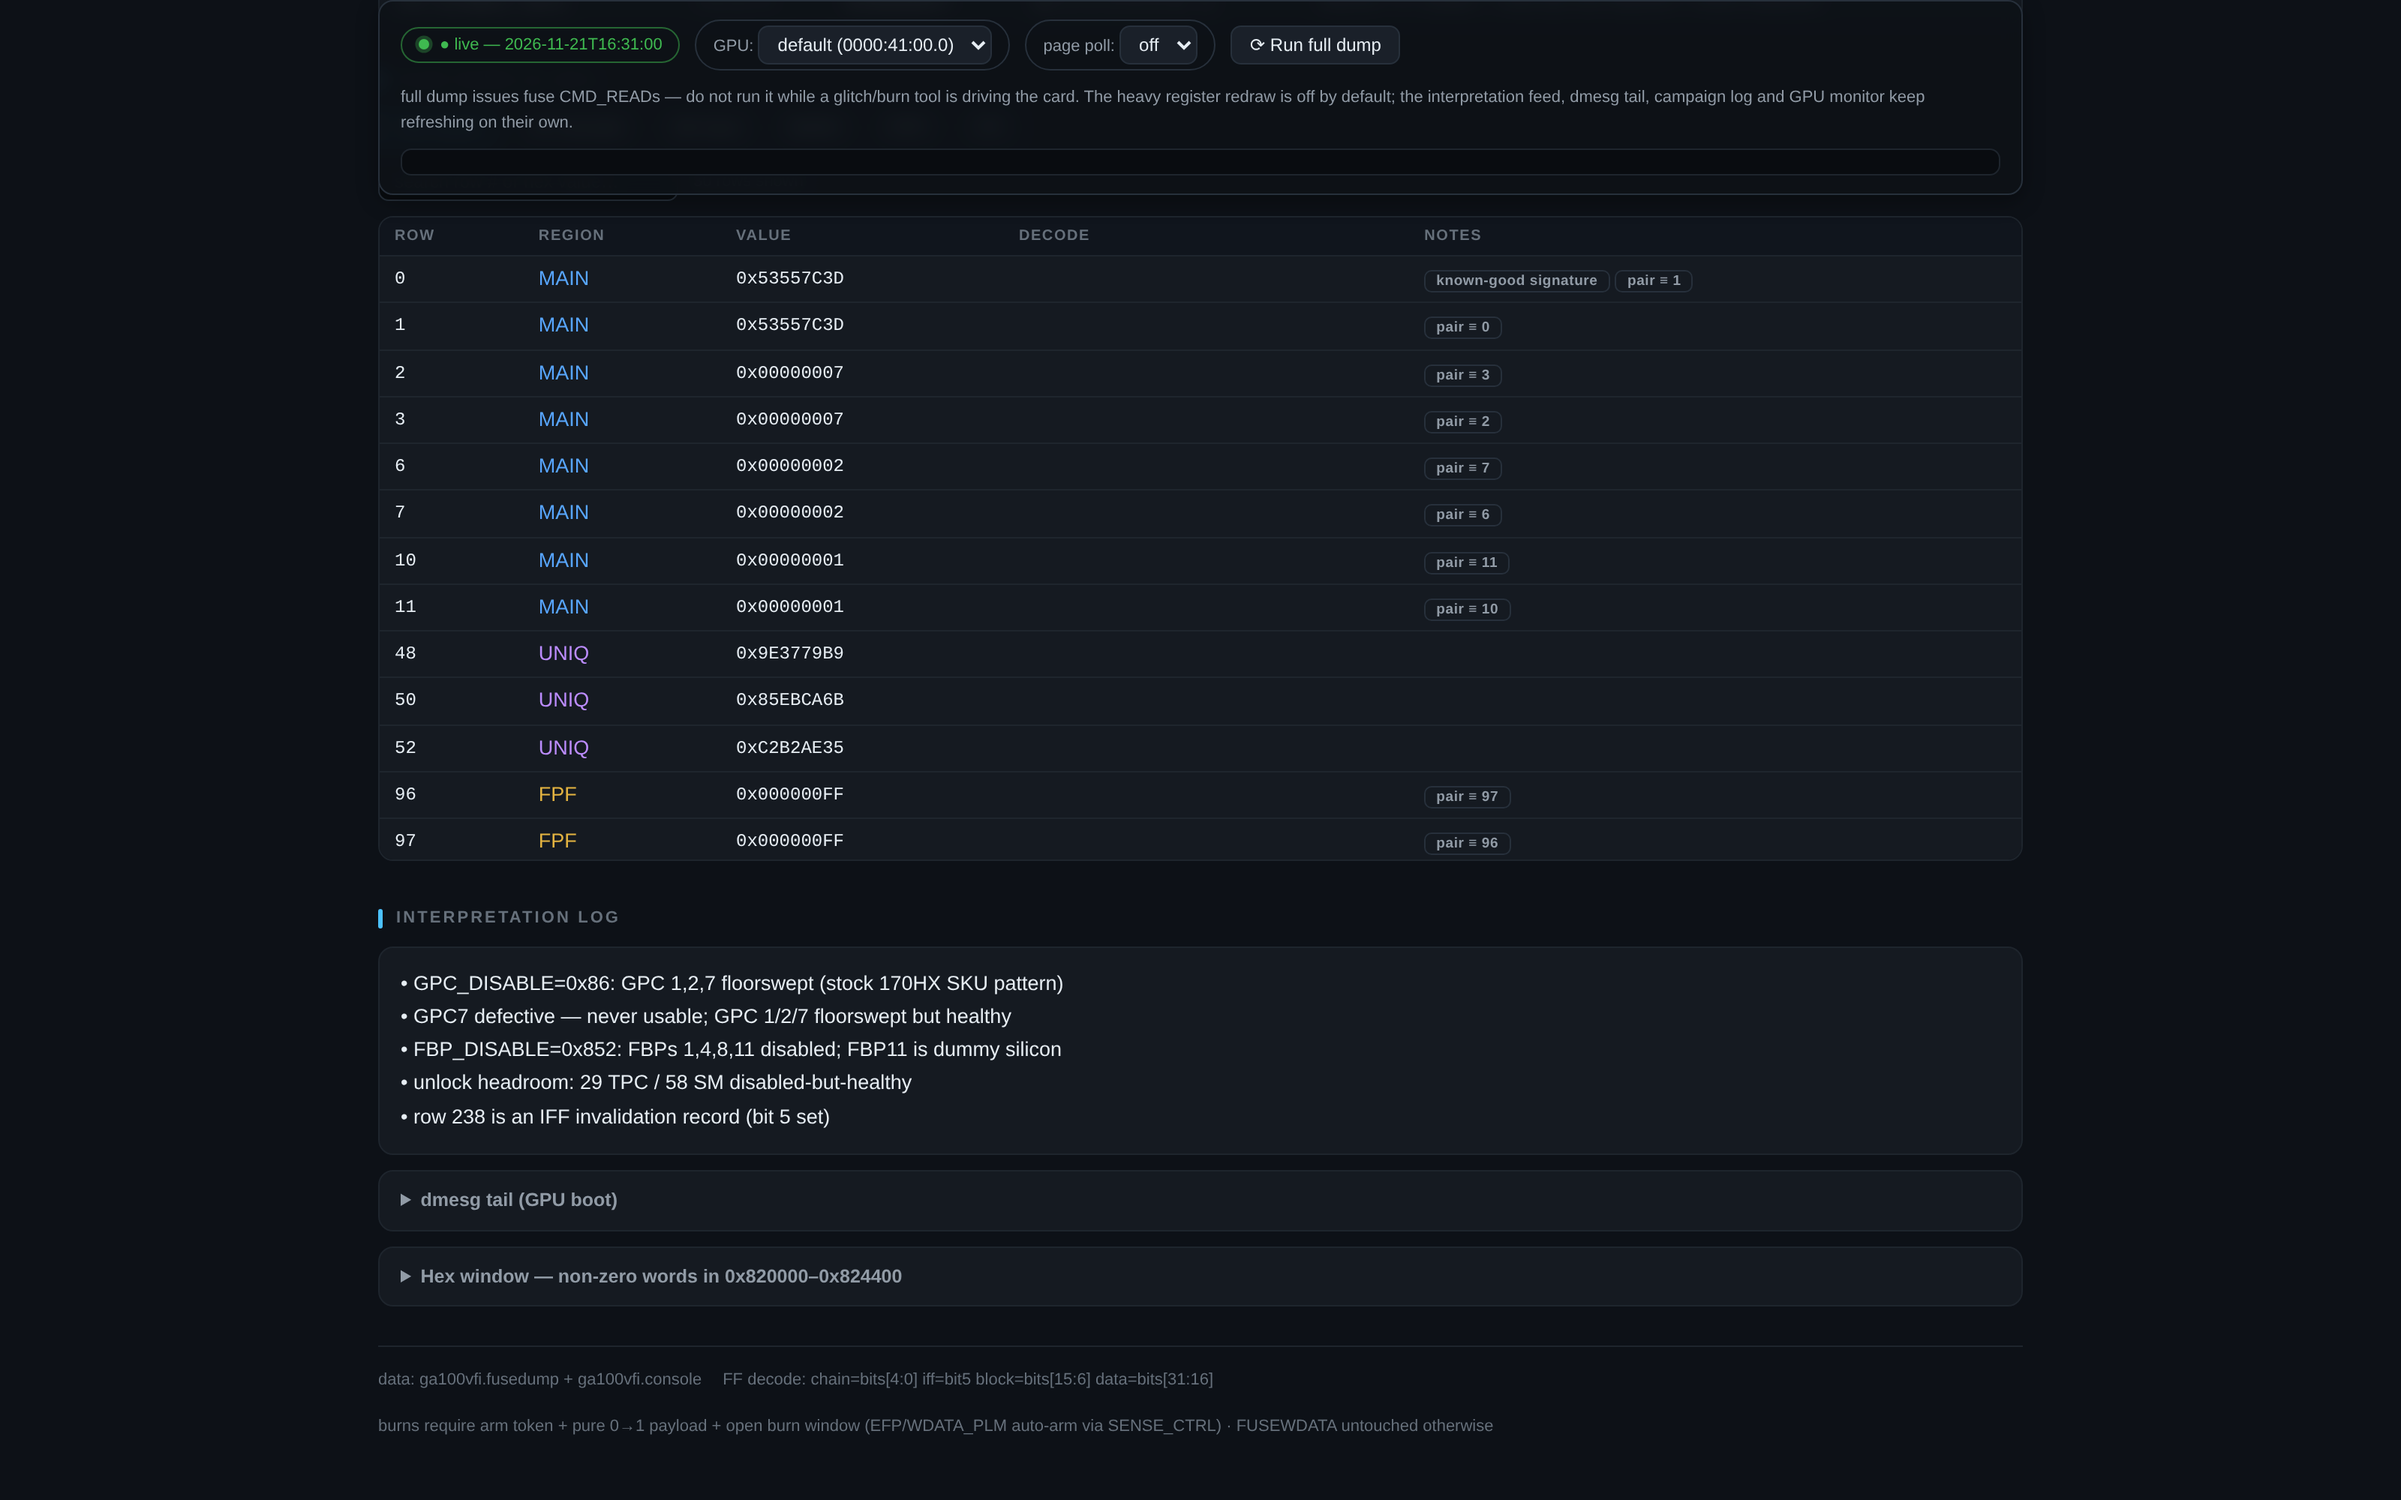
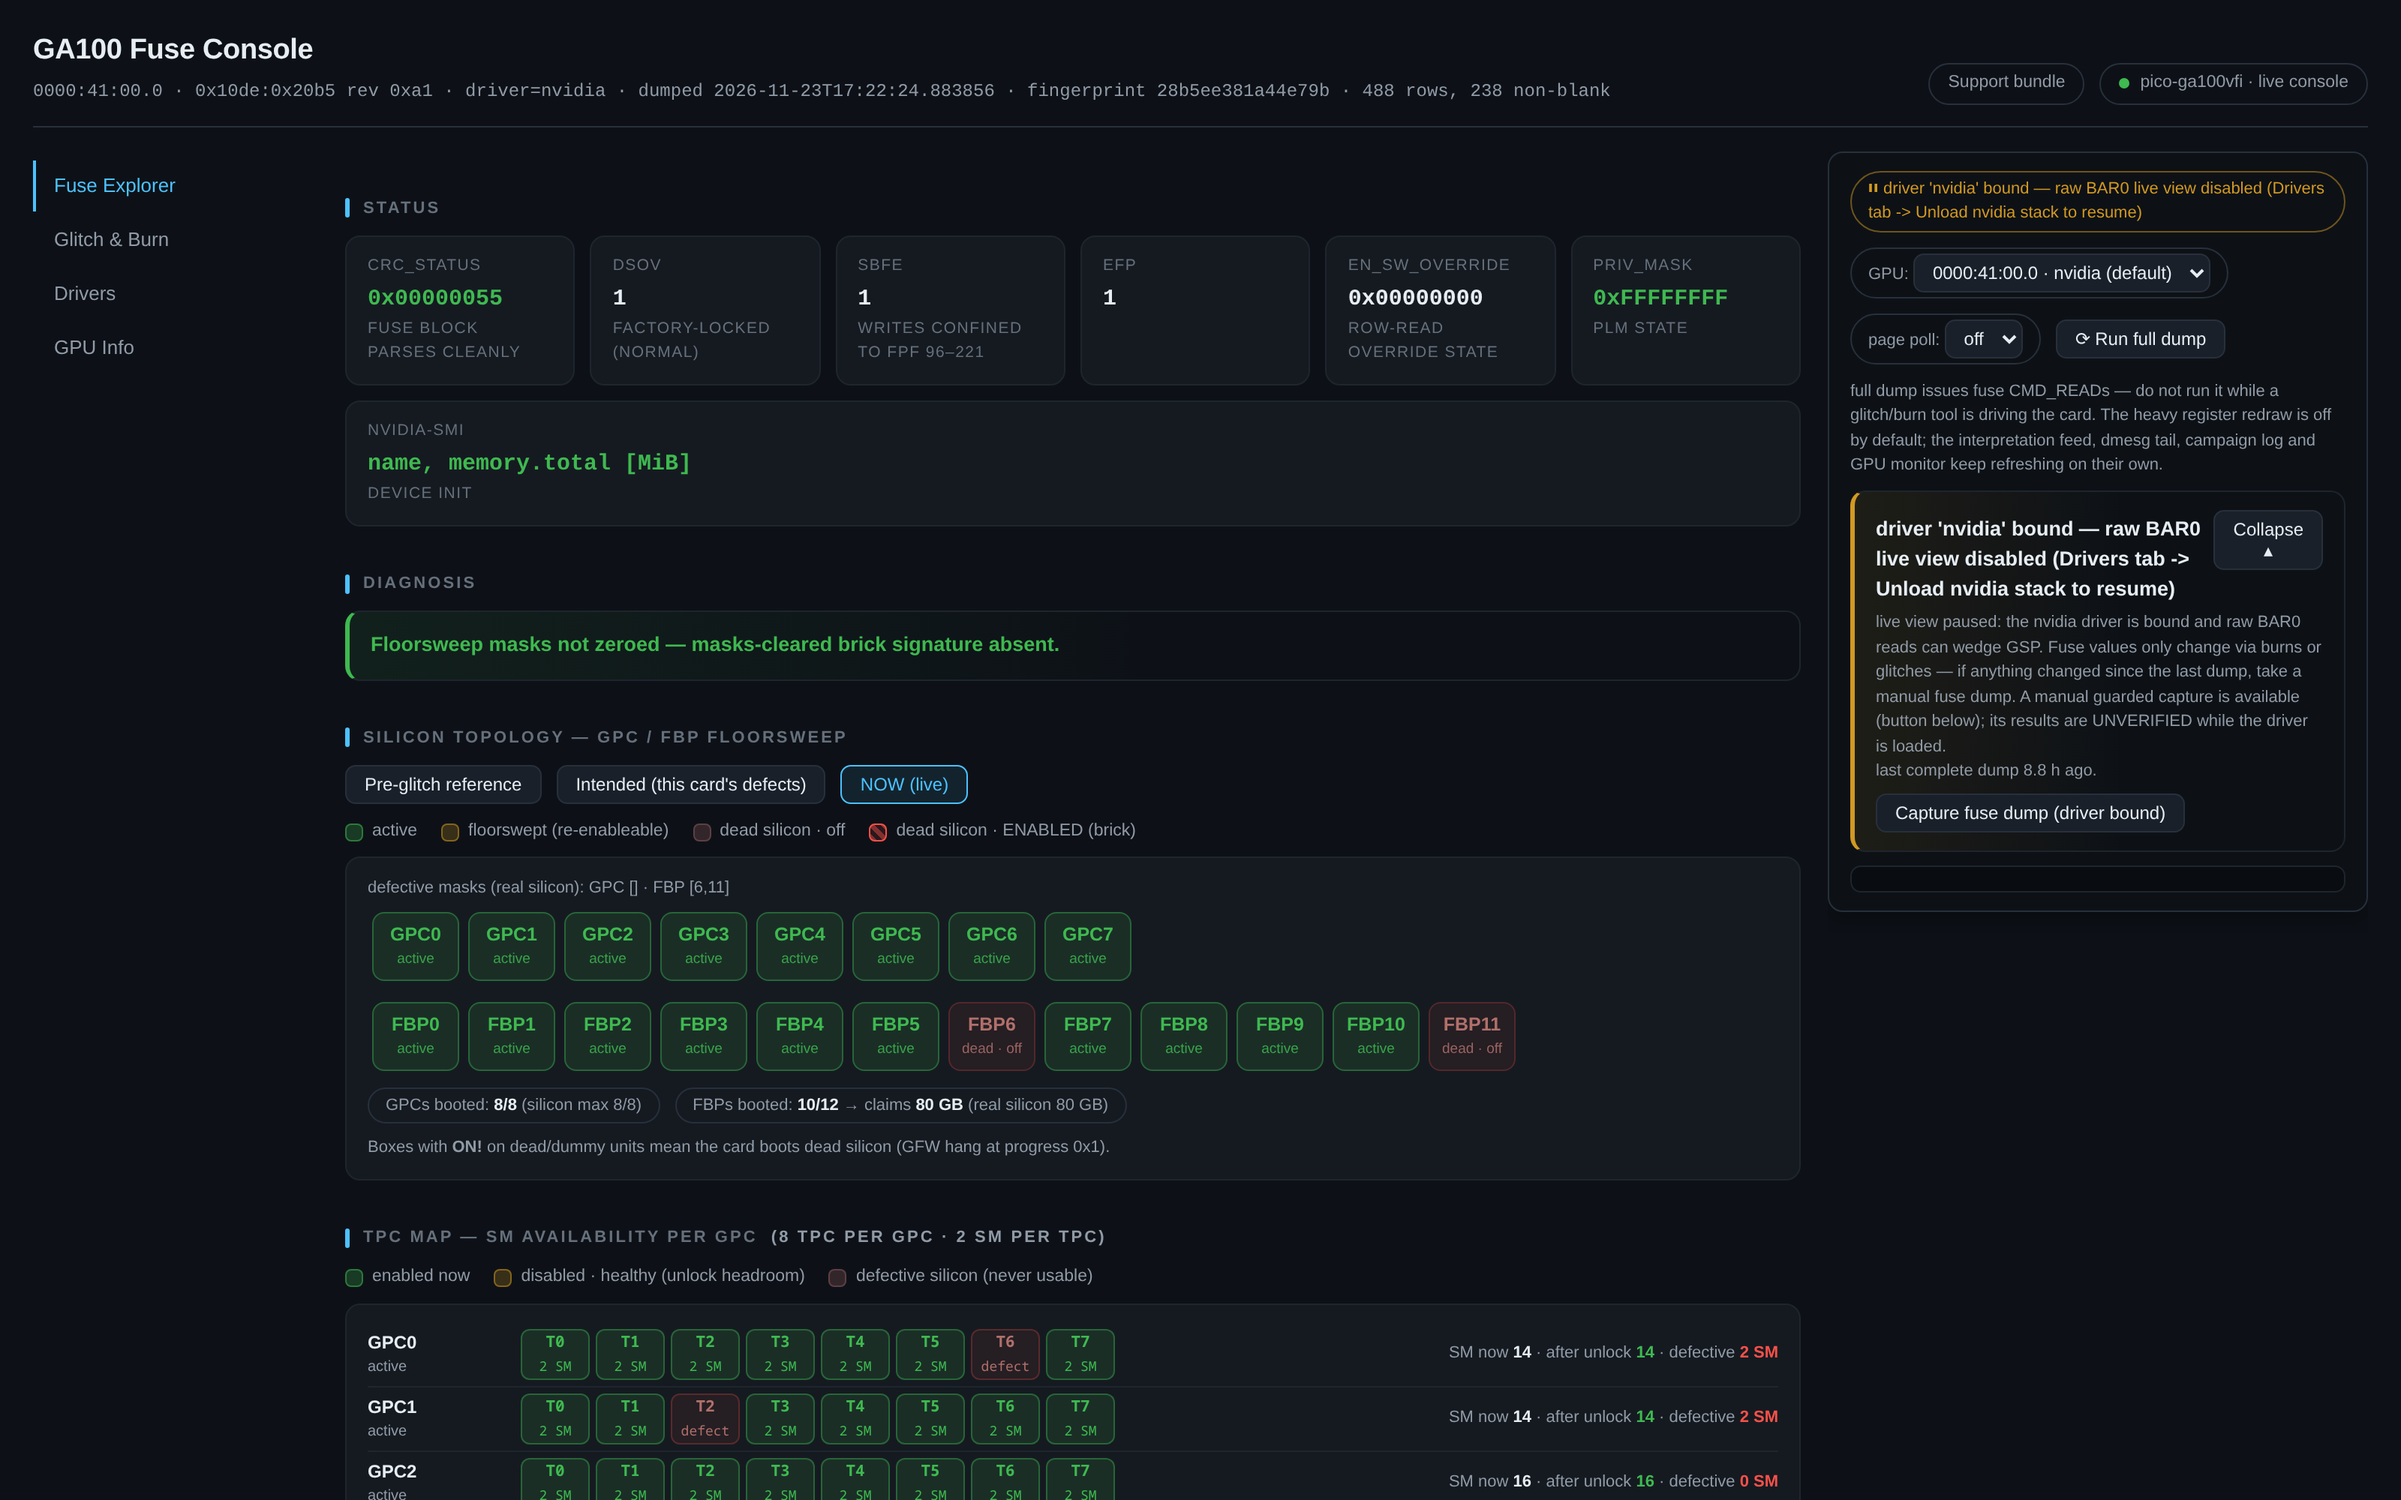
docs: refresh console screenshots for current vertical-rail UI

diff --git a/README.md b/README.md
@@ -45,9 +45,10 @@ sudo python3 -m ga100vfi.console --port 8790
 | **Drivers** | **GPU Info** |
 | ![Drivers tab](docs/images/console-drivers.png) | ![GPU Info tab](docs/images/console-gpu.png) |
 
-*Console screenshots were captured from the current console UI in mock
-mode on the latest code, including the brick-risk warning banner (representative fuse data); card serial, host name, IP addresses,
-username and home paths are masked.*
+*Console screenshots were captured from the live console on a bench rig
+(2026-11-23, `nvidia` bound — the paused banner and the driver-bound
+capture panel are visible); card serials and home paths are scrubbed at
+the network layer before render.*
 
 - Four tabs — **Fuse Explorer** (pure-read live poll with a change feed, full
   488-row dumps, GPC/FBP topology, FF-record decode), **Glitch & Burn**,

diff --git a/docs/CONSOLE.md b/docs/CONSOLE.md
@@ -601,6 +601,9 @@ every condition with its read value, expected value and fix hint, plus
 what the capture will do; the **Capture now** button is enabled only when
 every condition passes (`fix the failed conditions first` otherwise).
 
+![Driver-bound capture consent panel — preflight conditions with read
+values and the gated Capture now button](images/console-capture-consent.png)
+
 **Preflight conditions** (all read-only; the capture itself re-runs them
 and refuses with `preflight refused: <names>` + the failed conditions):
 
